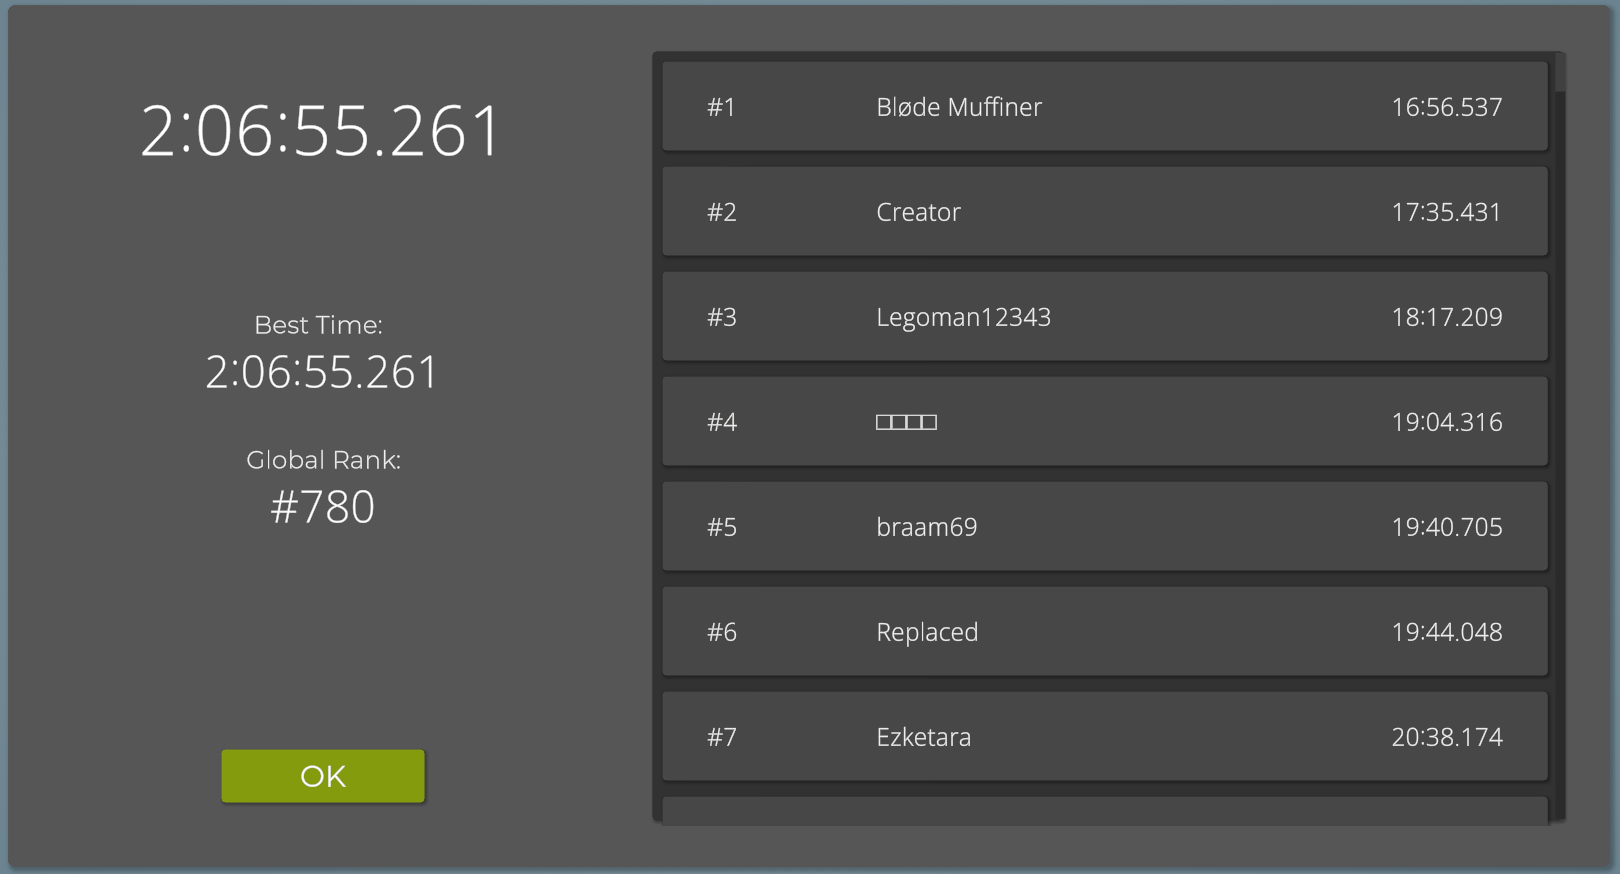
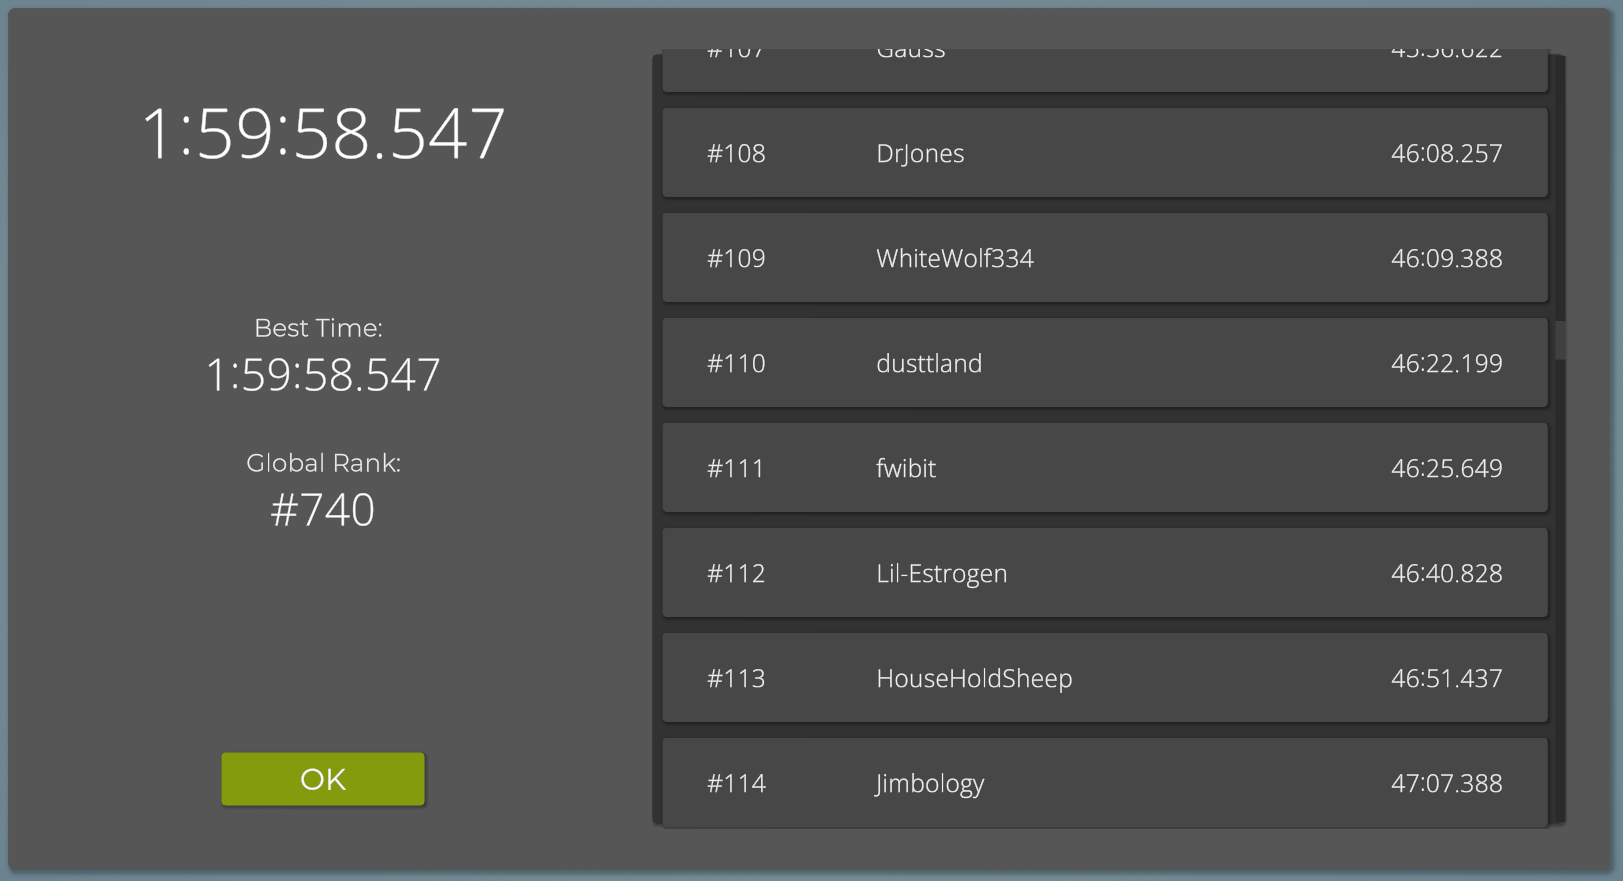
fix: add watering support

diff --git a/scripts/Entities.py b/scripts/Entities.py
@@ -17,6 +17,8 @@ def Get_Power(number):
 			Grow(Items.Power)
 
 def Grow(item):
+	if num_items(Items.Wood) > 500 and num_items(Items.Water_Tank) < 50:
+		trade(Items.Empty_Tank)
 	if (item == Items.Hay or item == Items.Wood or item == Items.Carrot):
 		if Is_Unlocked(Unlocks.Polyculture):
 			Grow_Companion()

diff --git a/scripts/Companion.py b/scripts/Companion.py
@@ -24,6 +24,7 @@ def Plant_Companion():
 
 def Grow_Companion():
 	clear()
-	For_Each_Tile(till)
+	For_Each_Tile(Make_Ground_Soil)
 	For_Each_Tile(Plant_Companion)
 	For_Each_Tile(Do_Harvest)
+						

diff --git a/scripts/Helpers.py b/scripts/Helpers.py
@@ -1,5 +1,5 @@
 def Do_Nothing():
-	do_a_flip()
+	return
 
 def For_Each_Tile(callback):
 	Move_To(0,0)

diff --git a/README.md b/README.md
@@ -4,6 +4,6 @@ This repository holds a collaborative solution to the Leaderboard challenge in t
 
 ## Status
 
-### 2:06:55:261
+### 1:59:58:547
 
 ![alt text](image.png)
